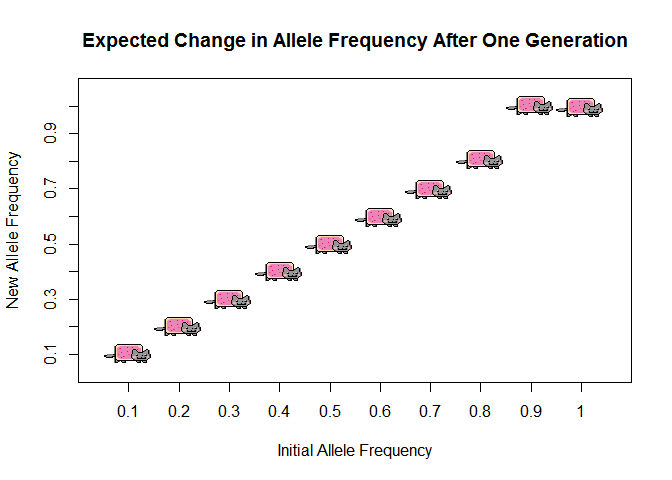
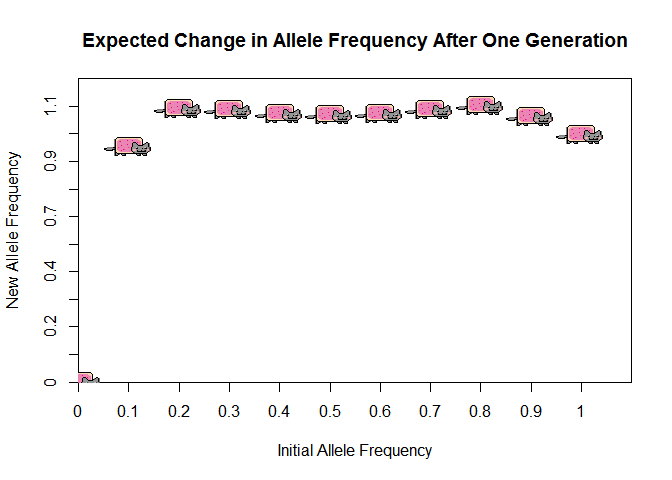
Fixing the math

diff --git a/Problem_Set_2.html b/Problem_Set_2.html
@@ -130,35 +130,35 @@ $(document).ready(function () {
 <div id="question-1" class="section level3">
 <h3>Question 1</h3>
 <p><strong>A) Use a program such as R or Excel to generate a scatter plot that shows how expected allele frequency change from genetic drift depends on initial allele frequency. The x-axis should be initial allele frequency and range from 0 to 1. The y-axis should be expected change in allele frequency after one generation. Perform calculations in steps of 0.1 for a population size of 2N=20.</strong></p>
-<pre class="r"><code>A.initialprob = seq(0.1,1, by = 0.1)
-A.changingprob = seq(0,1, by = 0.1)
-A.n = 20
-A.SecondGenExpChange = c()
+<pre class="r"><code>initial.allele.freq = c(0,0.1,0.2,0.3,0.4,0.5,0.6,0.7,0.8,0.9,1)
+changing.allele.freq = c(0,0.1,0.2,0.3,0.4,0.5,0.6,0.7,0.8,0.9,1)
+N = 20
+Expected.change = c()
 
-for(i in A.initialprob){
+for(i in initial.allele.freq){
   expected.change = c()
-  for(p in seq_along(A.changingprob)){
-    if (p==1){
-      x = A.changingprob[p]*(dbinom((20*A.changingprob[p]), size = A.n, prob = i) + dbinom((20*A.changingprob[p]+1), size = A.n, prob = i))
-      expected.change = append(expected.change, x)}
-    else if (p==11){
-      y = A.changingprob[p]*(dbinom((20*A.changingprob[p]-1), size = A.n, prob = i) + dbinom((20*A.changingprob[p]), size = A.n, prob = i))
-      expected.change = append(expected.change,y)}
+  for(p in changing.allele.freq){
+    if (p==0){
+      x = dbinom((20*i), size = N, prob = i)
+      expected.change = append(expected.change, p*x)}
+    else if (p==1){
+      y = dbinom((20*p), size = N, prob = i)
+      expected.change = append(expected.change,p*y)}
     else{
-      z = A.changingprob[p]*(dbinom((20*A.changingprob[p]-1), size = A.n, prob = i) + dbinom((20*A.changingprob[p]+1), size = A.n, prob = i))  
-      expected.change = append(expected.change,z)}
+      z = dbinom((20*(i-0.1)), size = N, prob = i) + dbinom((20*(i+0.1)), size = N, prob = i)  
+      expected.change = append(expected.change,p*z)}
   }
-  A.SecondGenExpChange = append(A.SecondGenExpChange, sum(expected.change))
+  Expected.change = append(Expected.change, (sum(expected.change)))
 }
 
-catplot(A.initialprob, A.SecondGenExpChange, size = 0.1, cat = 11, xlab = &quot;Initial Allele Frequency&quot;, ylab = &quot;New Allele Frequency&quot;, main = &quot;Expected Change in Allele Frequency After One Generation&quot;)</code></pre>
[1 lines of base64/hex data omitted]
+catplot(initial.allele.freq, Expected.change, size = 0.1, cat = 11, xlab = &quot;Initial Allele Frequency&quot;, ylab = &quot;New Allele Frequency&quot;, main = &quot;Expected Change in Allele Frequency After One Generation&quot;)</code></pre>
[1 lines of base64/hex data omitted]
 <pre><code>## $xs
-##  [1] 0.1 0.2 0.3 0.4 0.5 0.6 0.7 0.8 0.9 1.0
+##  [1] 0.0 0.1 0.2 0.3 0.4 0.5 0.6 0.7 0.8 0.9 1.0
 ## 
 ## $ys
-##  [1] 0.1014412 0.2000122 0.3000000 0.4000000 0.5000010 0.6000366 0.7007979
-##  [8] 0.8114805 1.0086063 1.0000000
+##  [1] 0.0000000 0.9510997 1.1070411 1.1016797 1.0869896 1.0812101 1.0870262
+##  [8] 1.1024776 1.1185703 1.0726763 1.0000000
 ## 
 ## $args
 ## $args$xlab

diff --git a/Problem_Set_2.md b/Problem_Set_2.md
@@ -9,39 +9,39 @@
 **A) Use a program such as R or Excel to generate a scatter plot that shows how expected allele frequency change from genetic drift depends on initial allele frequency. The x-axis should be initial allele frequency and range from 0 to 1. The y-axis should be expected change in allele frequency after one generation. Perform calculations in steps of 0.1 for a population size of 2N=20.**  
 
 ```r
-A.initialprob = seq(0.1,1, by = 0.1)
-A.changingprob = seq(0,1, by = 0.1)
-A.n = 20
-A.SecondGenExpChange = c()
+initial.allele.freq = c(0,0.1,0.2,0.3,0.4,0.5,0.6,0.7,0.8,0.9,1)
+changing.allele.freq = c(0,0.1,0.2,0.3,0.4,0.5,0.6,0.7,0.8,0.9,1)
+N = 20
+Expected.change = c()
 
-for(i in A.initialprob){
+for(i in initial.allele.freq){
   expected.change = c()
-  for(p in seq_along(A.changingprob)){
-    if (p==1){
-      x = A.changingprob[p]*(dbinom((20*A.changingprob[p]), size = A.n, prob = i) + dbinom((20*A.changingprob[p]+1), size = A.n, prob = i))
-      expected.change = append(expected.change, x)}
-    else if (p==11){
-      y = A.changingprob[p]*(dbinom((20*A.changingprob[p]-1), size = A.n, prob = i) + dbinom((20*A.changingprob[p]), size = A.n, prob = i))
-      expected.change = append(expected.change,y)}
+  for(p in changing.allele.freq){
+    if (p==0){
+      x = dbinom((20*i), size = N, prob = i)
+      expected.change = append(expected.change, p*x)}
+    else if (p==1){
+      y = dbinom((20*p), size = N, prob = i)
+      expected.change = append(expected.change,p*y)}
     else{
-      z = A.changingprob[p]*(dbinom((20*A.changingprob[p]-1), size = A.n, prob = i) + dbinom((20*A.changingprob[p]+1), size = A.n, prob = i))  
-      expected.change = append(expected.change,z)}
+      z = dbinom((20*(i-0.1)), size = N, prob = i) + dbinom((20*(i+0.1)), size = N, prob = i)  
+      expected.change = append(expected.change,p*z)}
   }
-  A.SecondGenExpChange = append(A.SecondGenExpChange, sum(expected.change))
+  Expected.change = append(Expected.change, (sum(expected.change)))
 }
 
-catplot(A.initialprob, A.SecondGenExpChange, size = 0.1, cat = 11, xlab = "Initial Allele Frequency", ylab = "New Allele Frequency", main = "Expected Change in Allele Frequency After One Generation")
+catplot(initial.allele.freq, Expected.change, size = 0.1, cat = 11, xlab = "Initial Allele Frequency", ylab = "New Allele Frequency", main = "Expected Change in Allele Frequency After One Generation")
 ```
 
 ![](Problem_Set_2_files/figure-html/unnamed-chunk-2-1.png)<!-- -->
 
 ```
 ## $xs
-##  [1] 0.1 0.2 0.3 0.4 0.5 0.6 0.7 0.8 0.9 1.0
+##  [1] 0.0 0.1 0.2 0.3 0.4 0.5 0.6 0.7 0.8 0.9 1.0
 ## 
 ## $ys
-##  [1] 0.1014412 0.2000122 0.3000000 0.4000000 0.5000010 0.6000366 0.7007979
-##  [8] 0.8114805 1.0086063 1.0000000
+##  [1] 0.0000000 0.9510997 1.1070411 1.1016797 1.0869896 1.0812101 1.0870262
+##  [8] 1.1024776 1.1185703 1.0726763 1.0000000
 ## 
 ## $args
 ## $args$xlab
